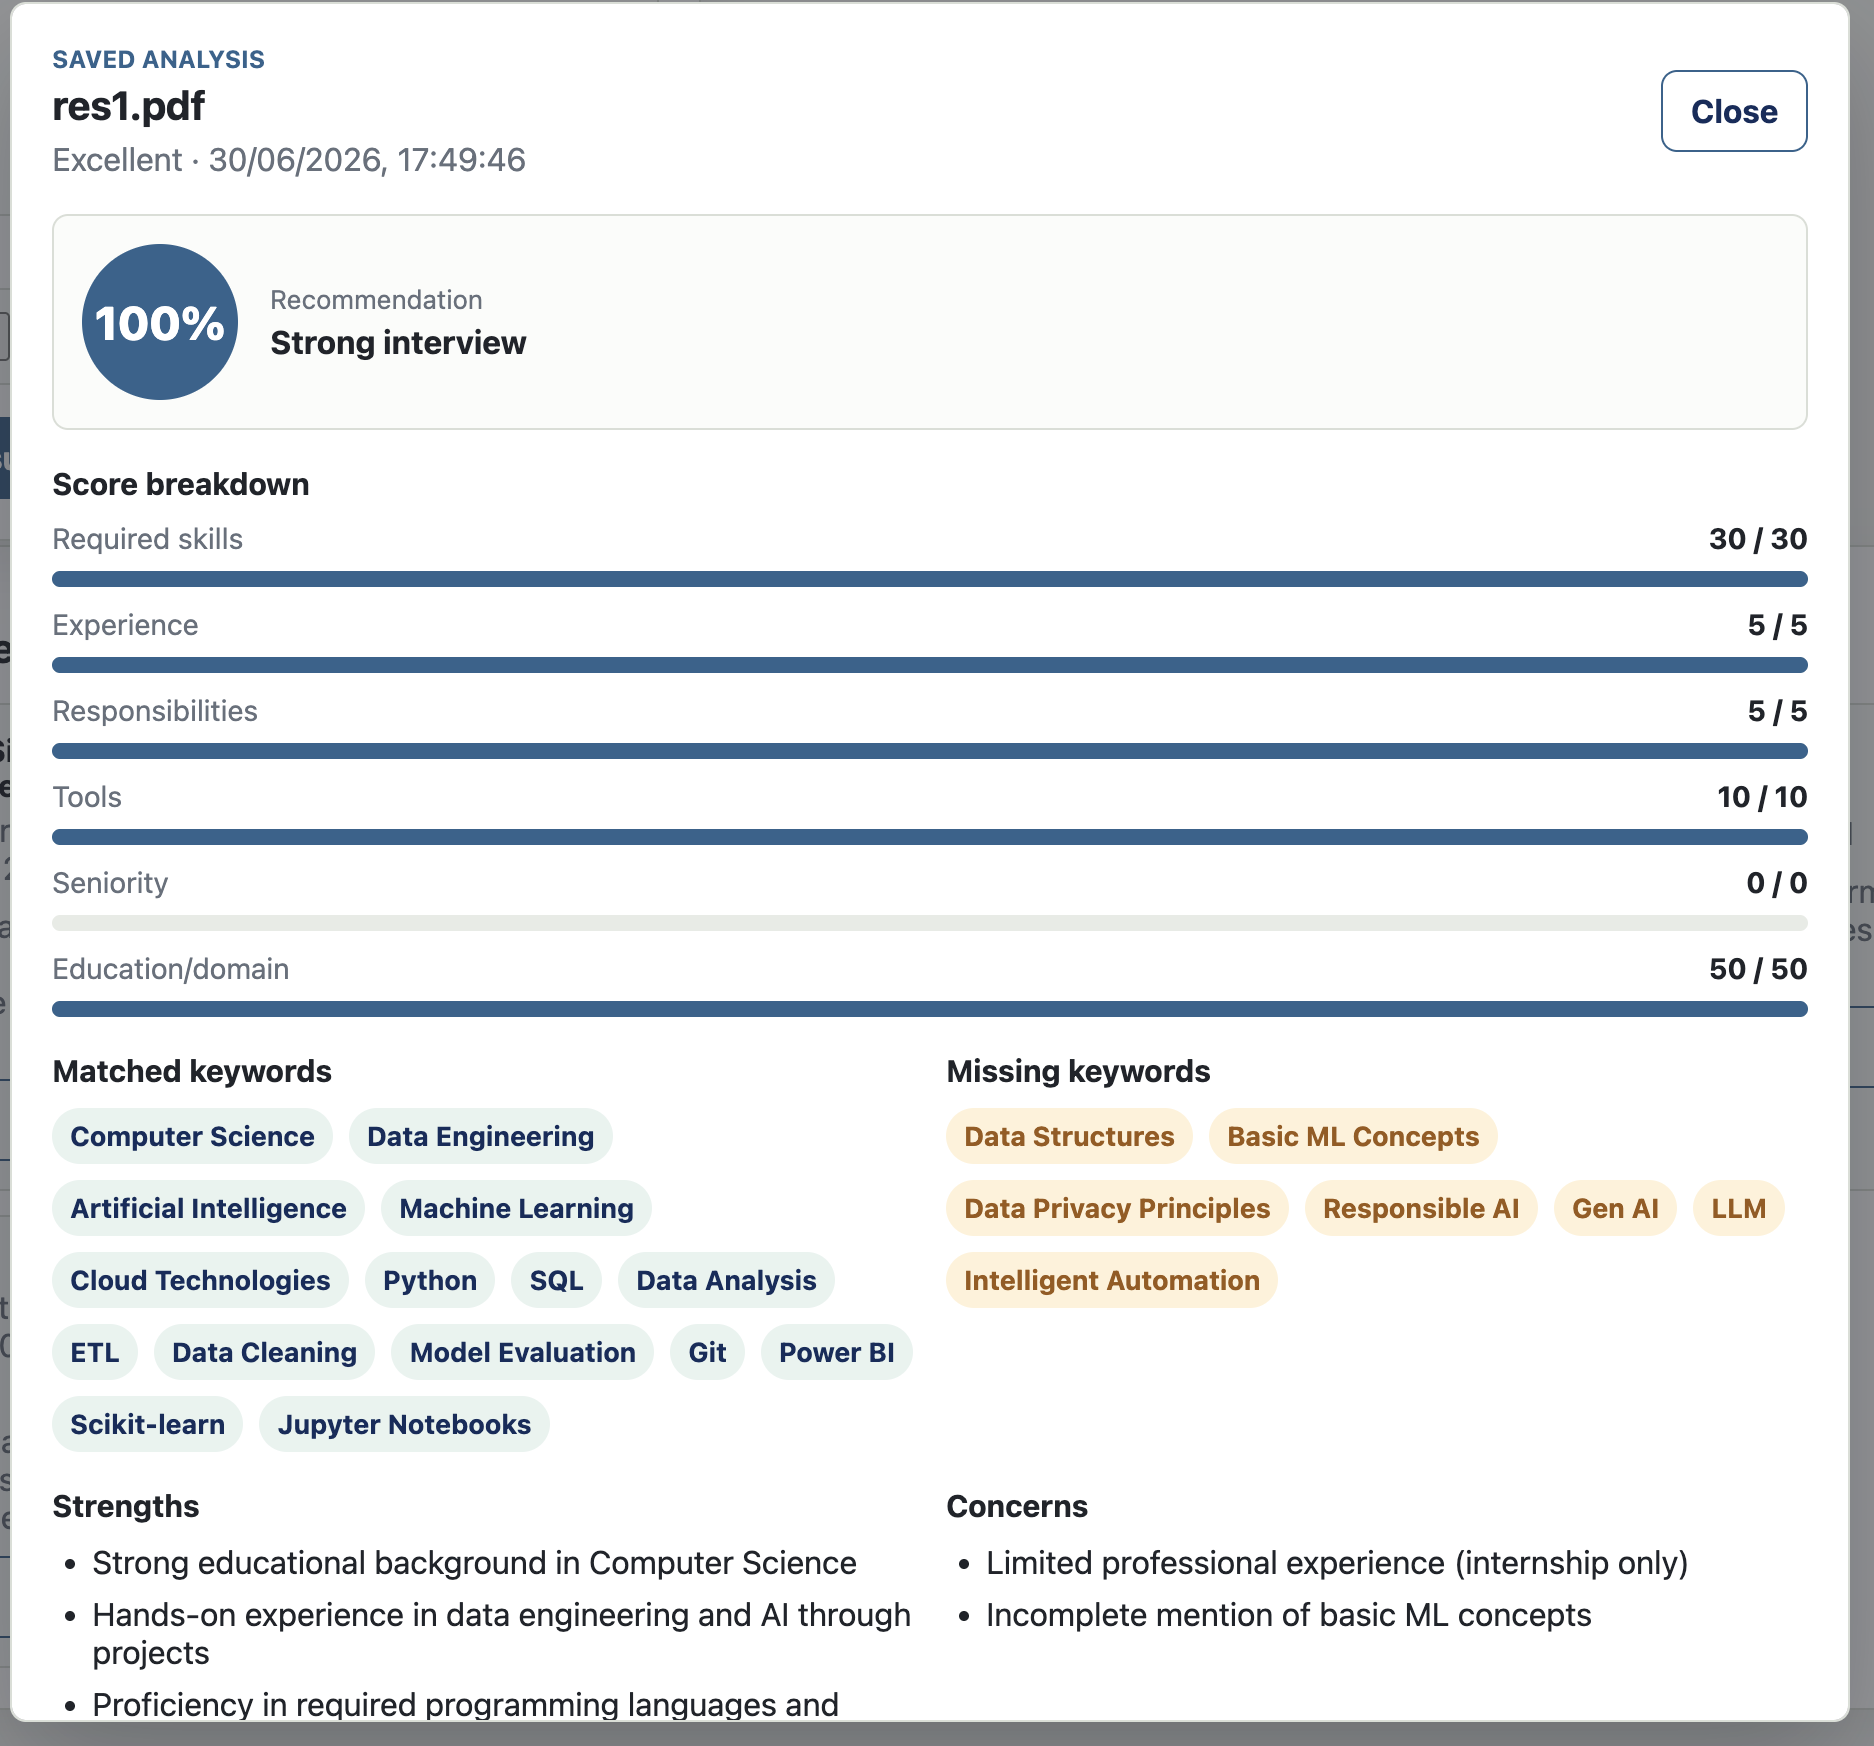
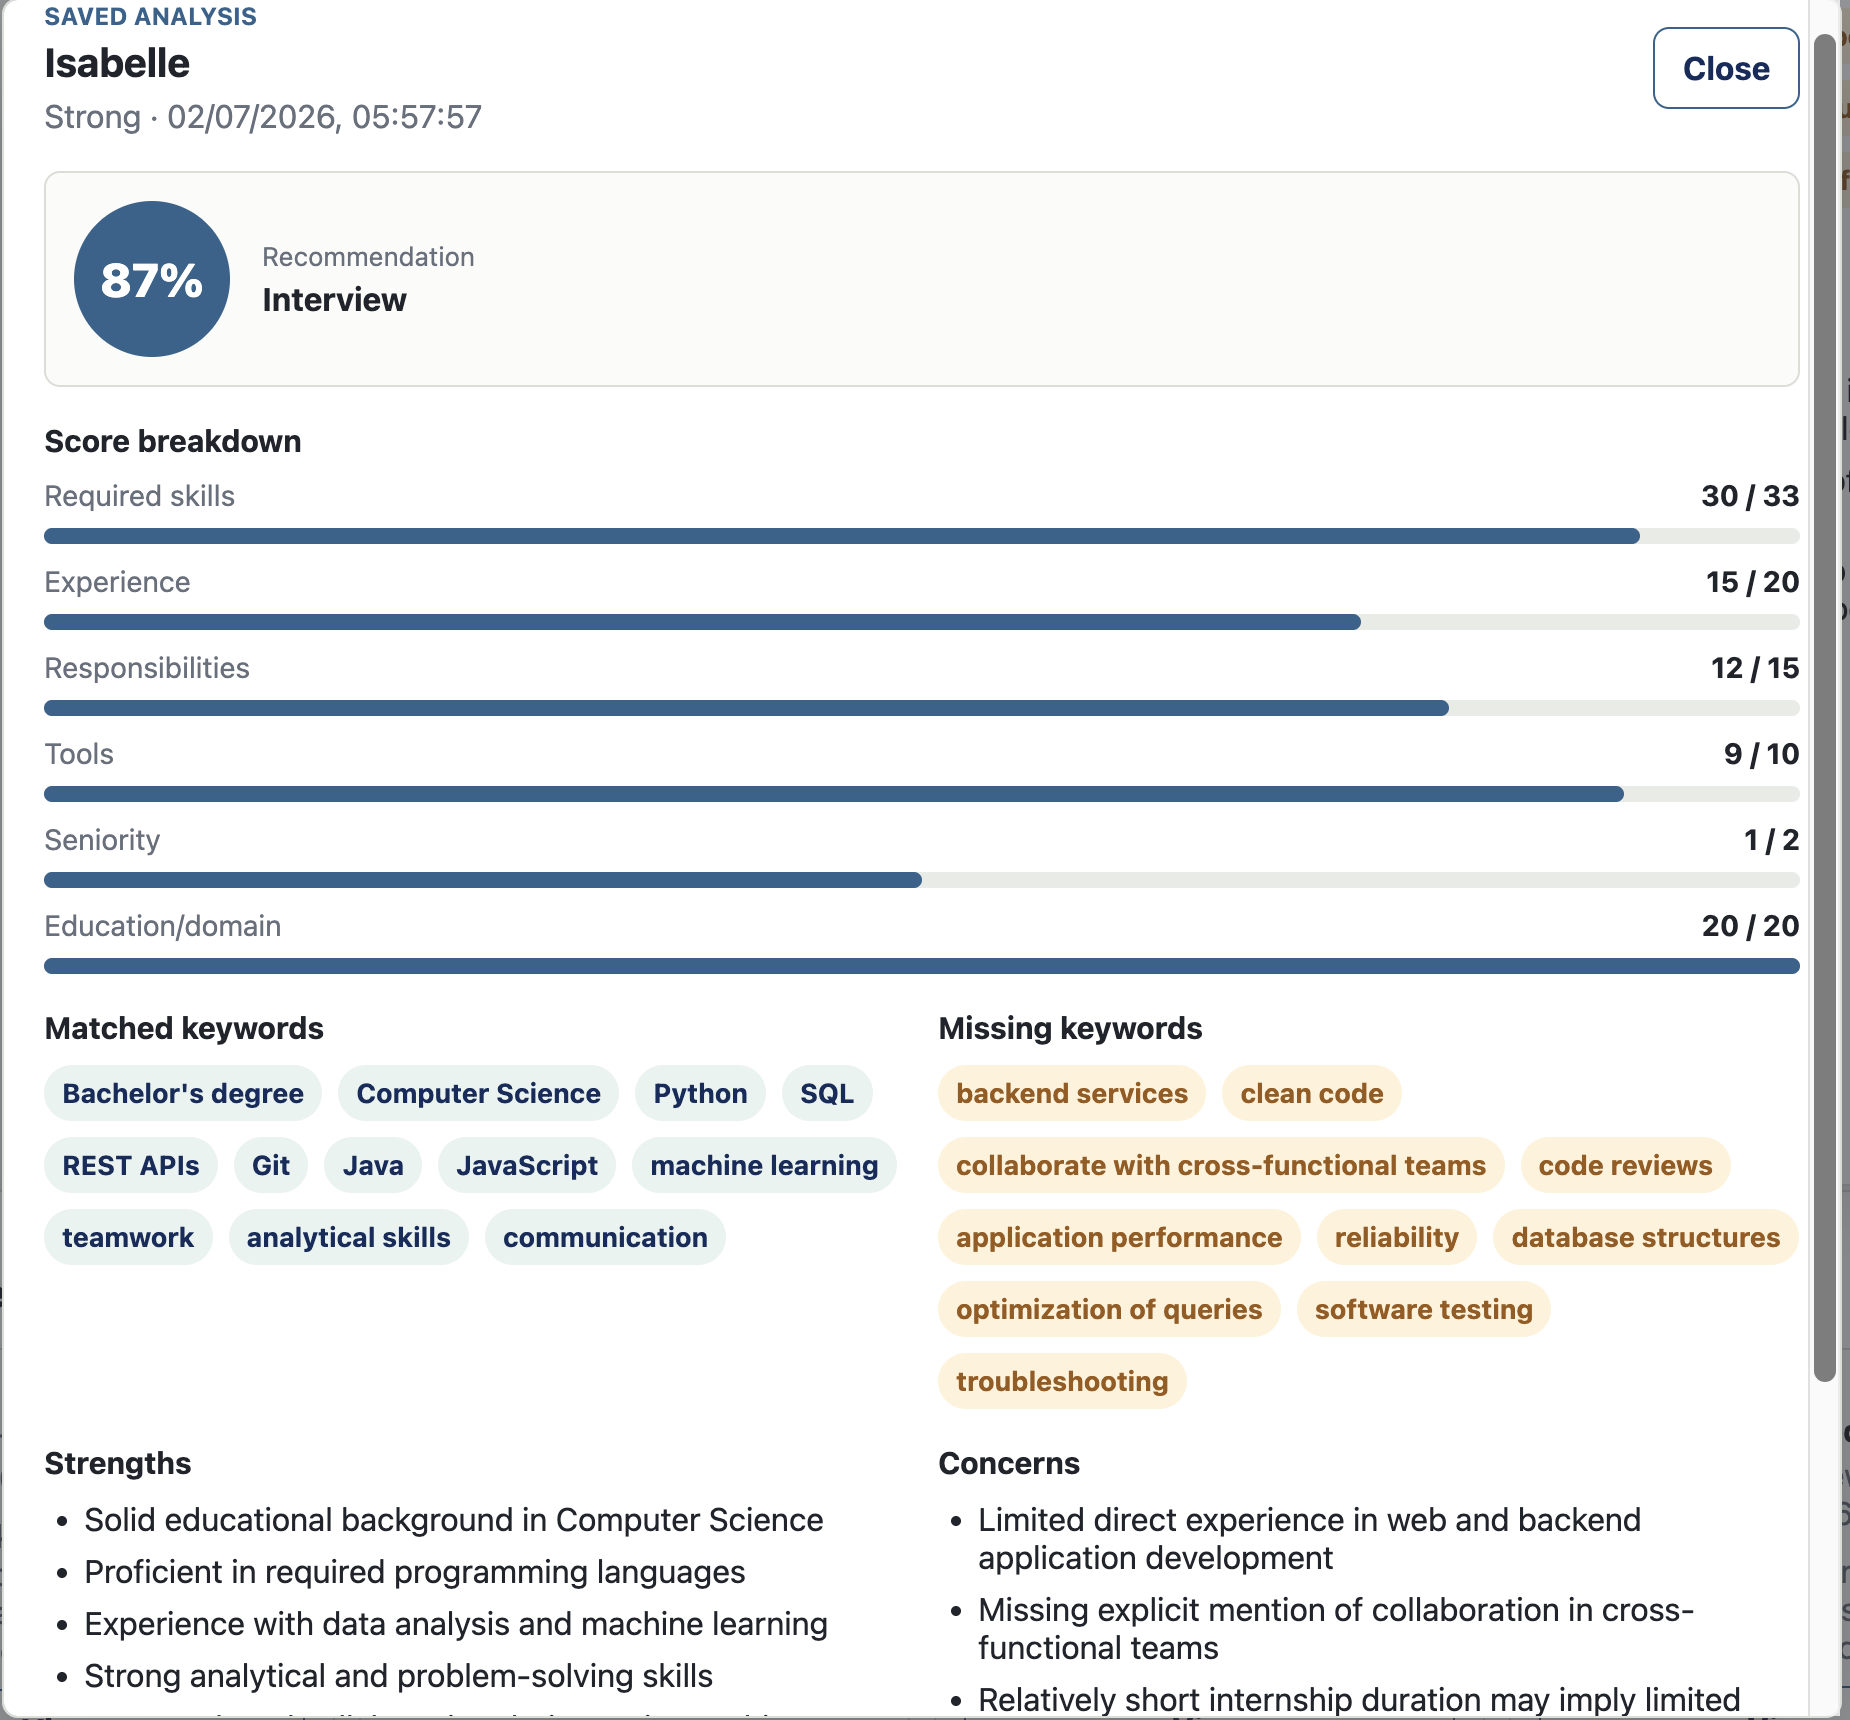
readme screenshot

Changed region(s): [[0.0, 0.0, 1.0, 1.0], [0.4314, 0.6163, 0.4622, 0.6471]]

diff --git a/README.md b/README.md
@@ -91,7 +91,7 @@ http://127.0.0.1:8000/
 If port `8000` is busy:
 
 ```bash
-uvicorn main:app --reload --port 8010
+uvicorn main:app --reload --port 8001
 ```
 
 ## How It Works